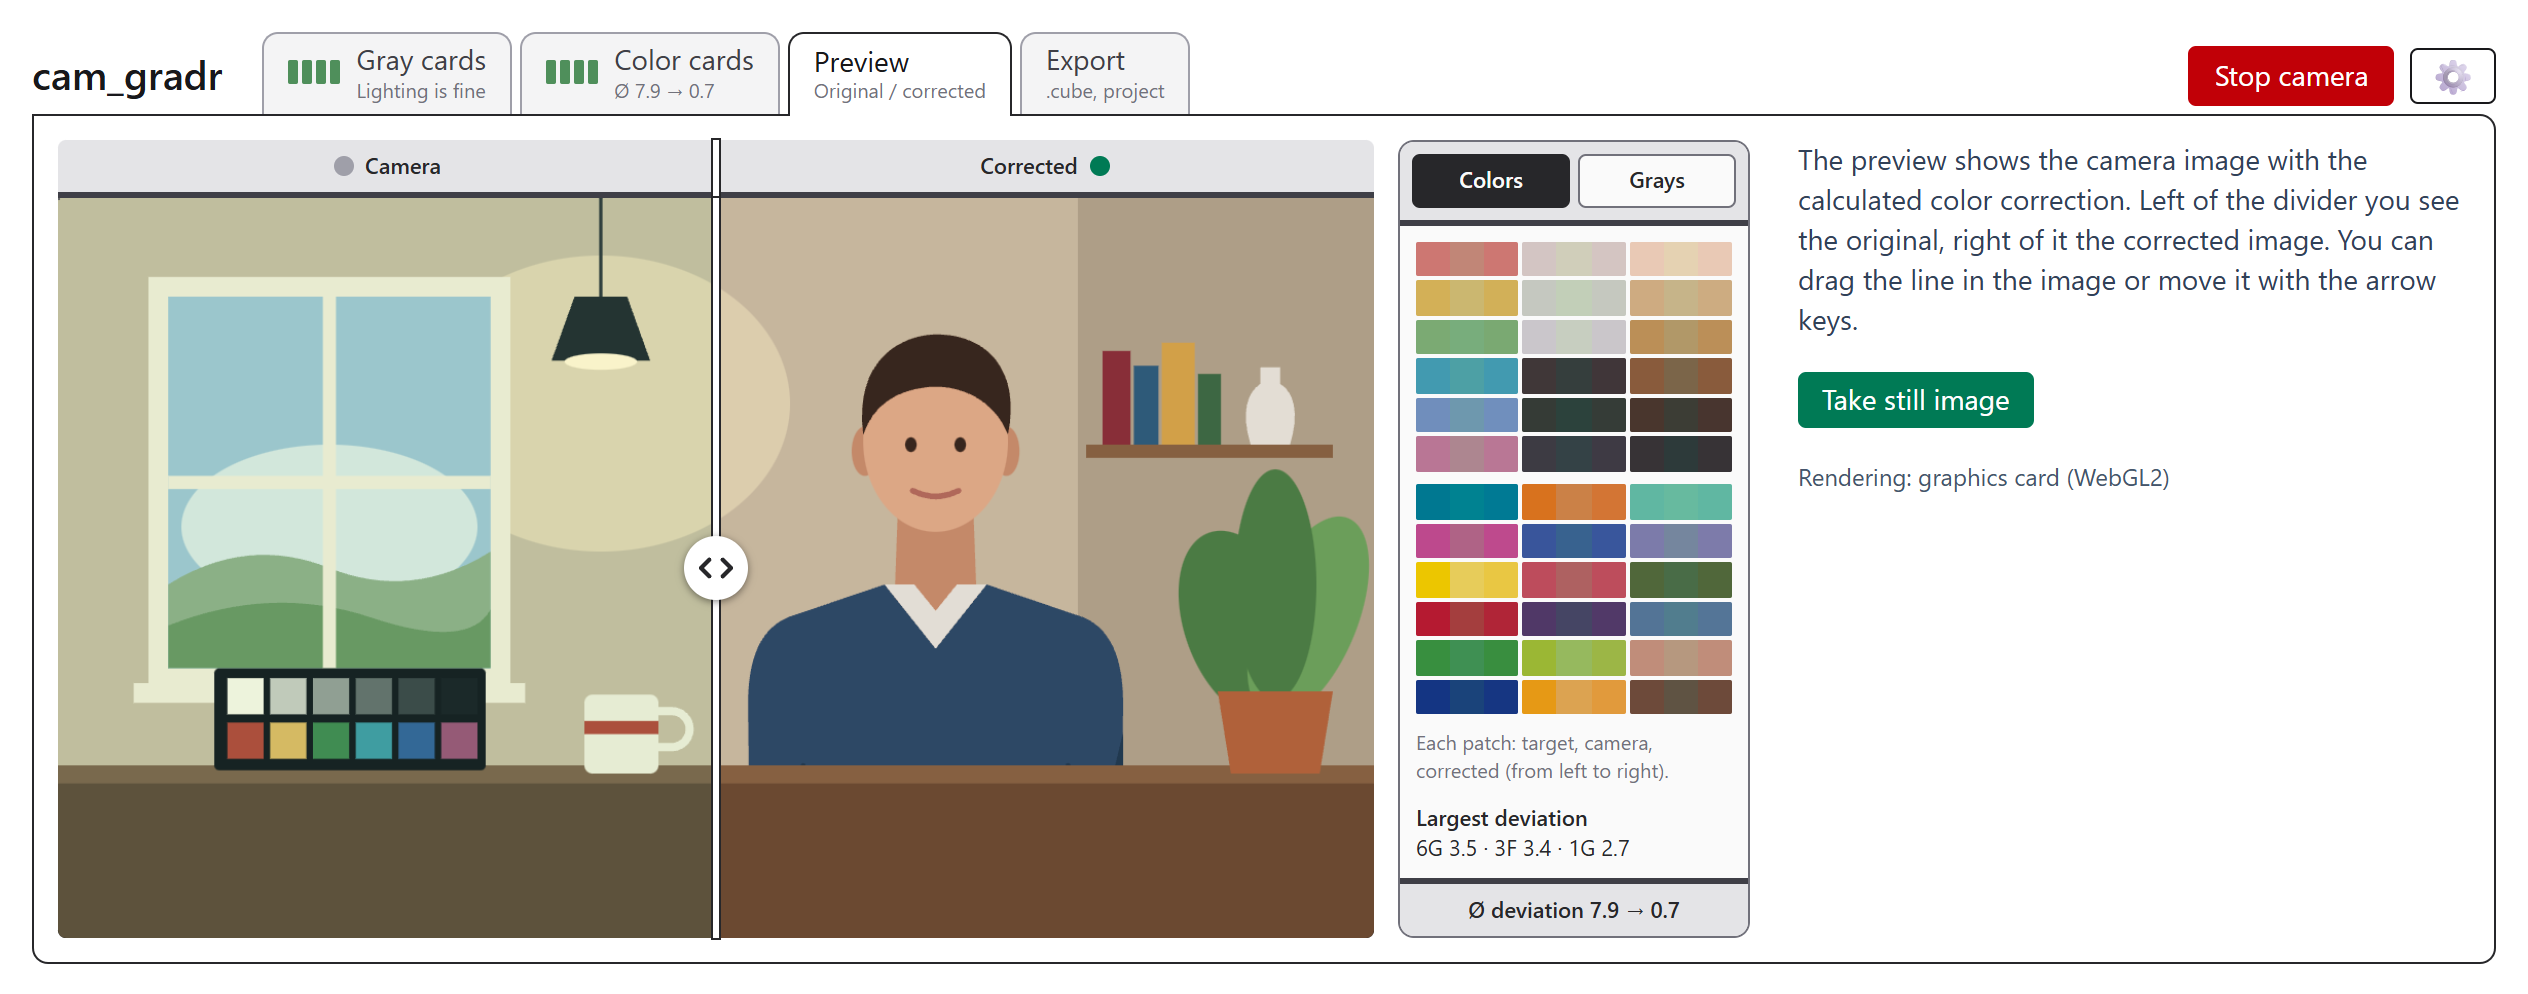
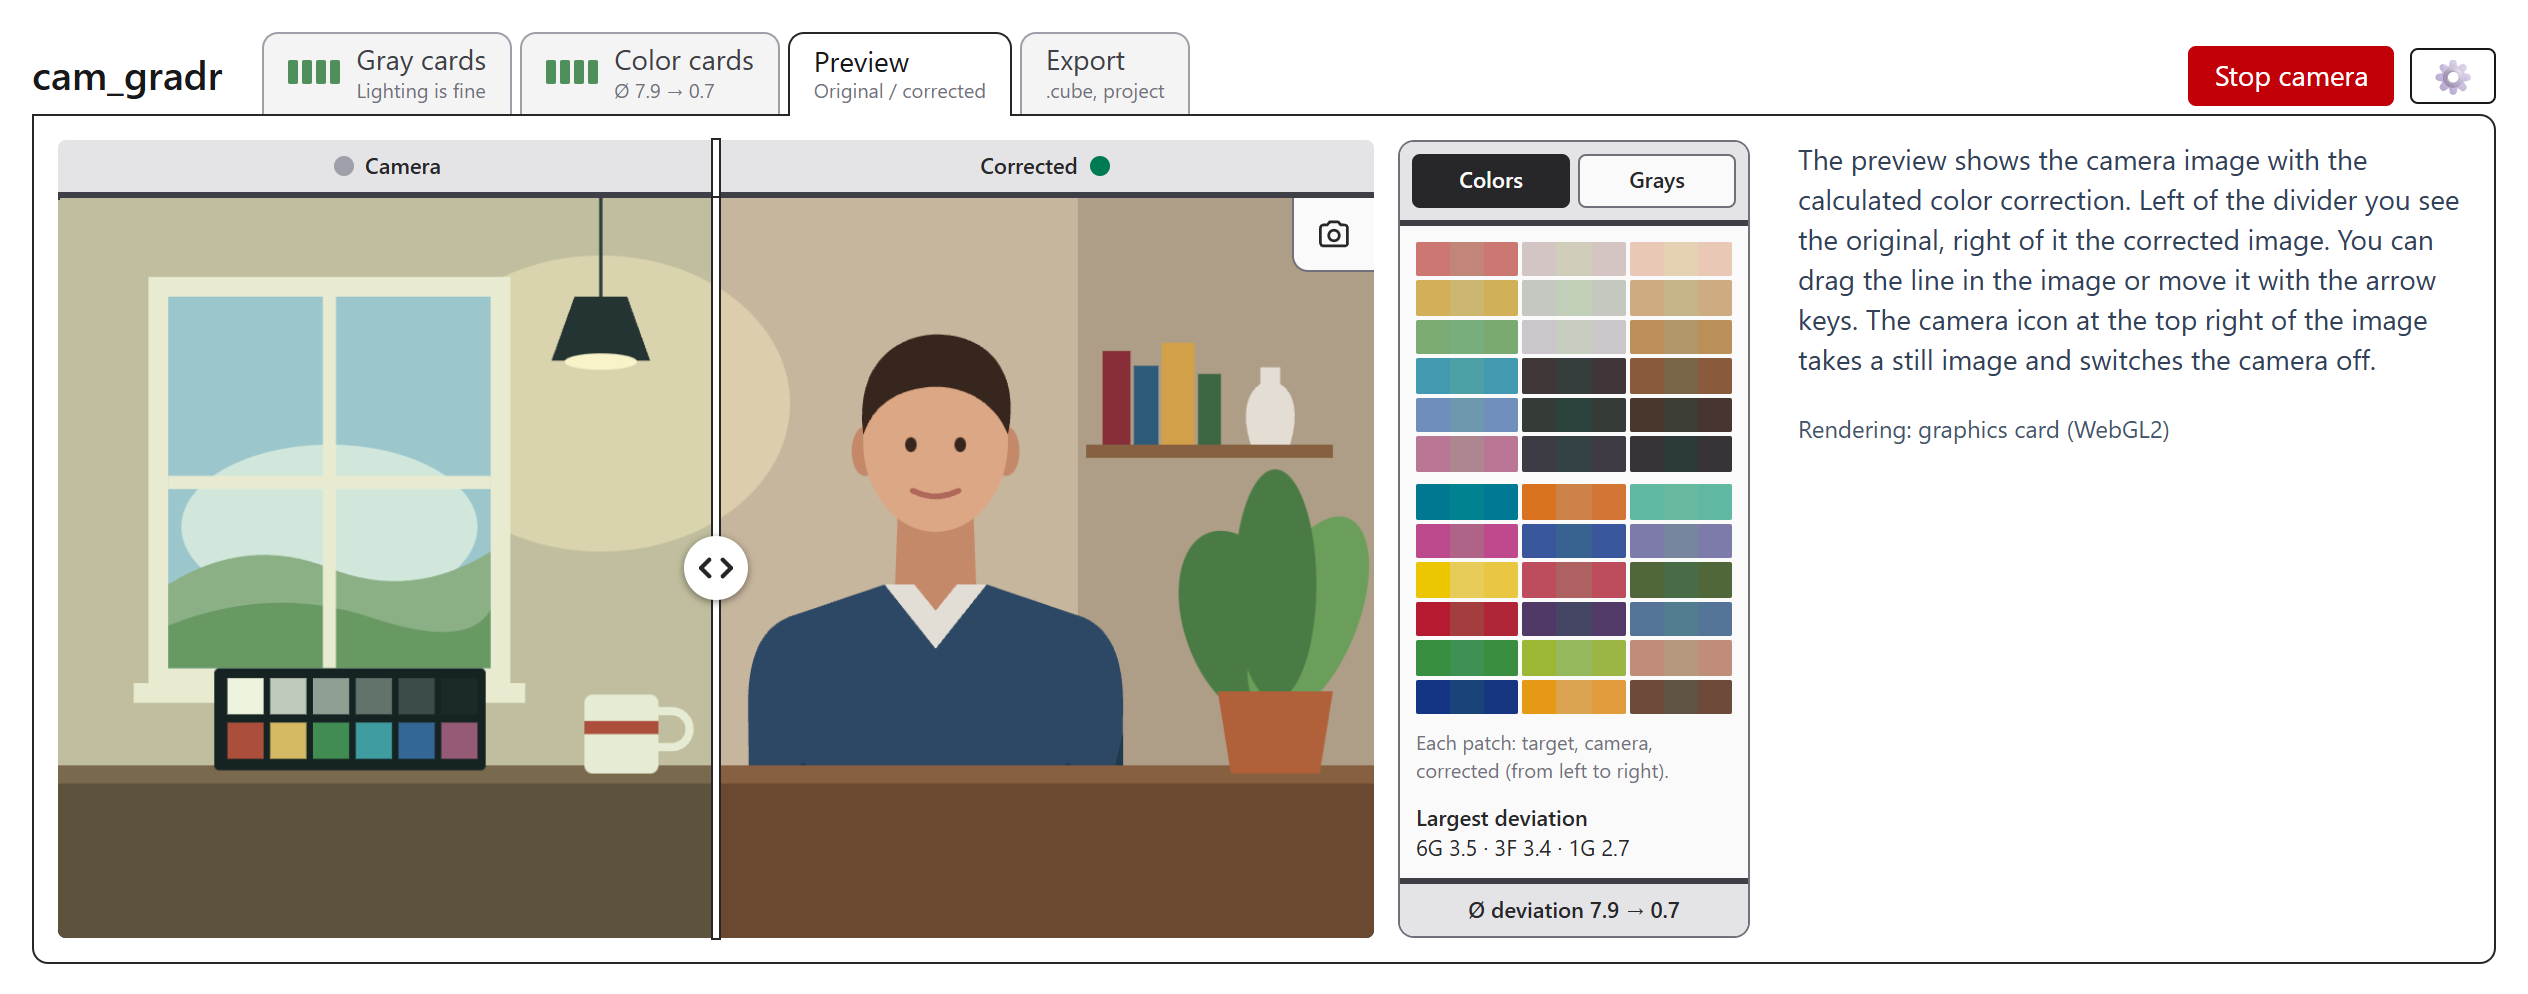
feat(ui): take the preview still image from the image corner (#91)
The preview took its still image with a green button in the side
column. It is now a camera icon at the top right of the image, in the
same corner toolbar as the trash of the card tabs, and appears only
while the camera runs. Actions now sit on the image, and the column
beside it only describes; its text names the icon.

The README picture is rendered again with the new button.

Changed region(s): [[0.6875, 0.3119, 0.9688, 0.499], [0.5, 0.1871, 0.5625, 0.2807]]

diff --git a/src/ui/PreviewTab.vue b/src/ui/PreviewTab.vue
@@ -237,16 +237,6 @@ const splitModel = computed({
       <p class="text-sm text-slate-700 dark:text-slate-300">
         {{ t('preview.intro') }}
       </p>
-      <div class="flex flex-wrap gap-2">
-        <button
-          type="button"
-          class="rounded bg-emerald-700 px-3 py-1 text-sm text-white disabled:opacity-50"
-          :disabled="!isLive || !videoReady"
-          @click="capture"
-        >
-          {{ t('preview.capture') }}
-        </button>
-      </div>
       <p v-if="error !== null" class="text-sm text-red-700 dark:text-red-400" role="alert">
         {{ error }}
       </p>
@@ -339,6 +329,40 @@ const splitModel = computed({
                 v-model="splitModel"
                 :label="t('preview.divider')"
               />
+              <!-- Toolbar in the image corner, where the card tabs have the trash: take a still
+                   image while the camera runs. The side column only describes, it holds no actions. -->
+              <div
+                v-if="model !== null && isLive"
+                class="absolute right-0 top-0 z-10 flex overflow-hidden rounded-bl-lg border-b border-l border-zinc-500 bg-zinc-50 text-zinc-800"
+                role="toolbar"
+                :aria-label="t('preview.toolbar')"
+              >
+                <button
+                  type="button"
+                  class="grid h-9 w-10 place-items-center hover:bg-zinc-800 hover:text-zinc-50 focus-visible:bg-zinc-800 focus-visible:text-zinc-50 disabled:pointer-events-none disabled:opacity-50"
+                  :aria-label="t('preview.capture')"
+                  :title="t('preview.captureTitle')"
+                  :disabled="!videoReady"
+                  data-testid="preview-capture"
+                  @click="capture"
+                >
+                  <svg
+                    class="size-[18px]"
+                    viewBox="0 0 24 24"
+                    fill="none"
+                    stroke="currentColor"
+                    stroke-width="1.8"
+                    stroke-linecap="round"
+                    stroke-linejoin="round"
+                    aria-hidden="true"
+                  >
+                    <path
+                      d="M3 8a2 2 0 0 1 2-2h2.5l1.5-2h6l1.5 2H19a2 2 0 0 1 2 2v10a2 2 0 0 1-2 2H5a2 2 0 0 1-2-2z"
+                    />
+                    <circle cx="12" cy="13" r="3.5" />
+                  </svg>
+                </button>
+              </div>
             </div>
           </div>
         </div>

diff --git a/src/ui/PreviewTab.test.ts b/src/ui/PreviewTab.test.ts
@@ -100,20 +100,22 @@ describe('PreviewTab', () => {
       return Promise.resolve();
     });
     const wrapper = mount(PreviewTab);
-    const take = () => wrapper.findAll('button').find((b) => b.text() === 'Standbild aufnehmen');
-    expect(take()?.attributes('disabled')).toBeDefined();
+    // The button sits in the image corner and only appears with the live image.
+    const take = () => wrapper.find('[data-testid="preview-capture"]');
+    expect(take().exists()).toBe(false);
 
     await camera.start();
     await flushPromises();
-    expect(take()?.attributes('disabled')).toBeDefined();
+    expect(take().attributes('aria-label')).toBe('Standbild aufnehmen');
+    expect(take().attributes('disabled')).toBeDefined();
     await wrapper.get('video').trigger('loadeddata');
-    expect(take()?.attributes('disabled')).toBeUndefined();
-    await take()?.trigger('click');
+    expect(take().attributes('disabled')).toBeUndefined();
+    await take().trigger('click');
     await flushPromises();
     expect(capture).toHaveBeenCalledTimes(1);
     expect(camera.status).toBe('idle');
     expect(camera.still).not.toBeNull();
-    expect(take()?.attributes('disabled')).toBeDefined();
+    expect(take().exists()).toBe(false);
     await camera.start();
     await flushPromises();
     expect(camera.still).toBeNull();
@@ -129,10 +131,7 @@ describe('PreviewTab', () => {
     await camera.start();
     await flushPromises();
     await wrapper.get('video').trigger('loadeddata');
-    await wrapper
-      .findAll('button')
-      .find((b) => b.text() === 'Standbild aufnehmen')
-      ?.trigger('click');
+    await wrapper.get('[data-testid="preview-capture"]').trigger('click');
     await flushPromises();
     expect(camera.status).toBe('live');
   });

diff --git a/PLAN.md b/PLAN.md
@@ -13,7 +13,7 @@ A single-page web app, purely client-side without a backend, that captures a Dat
 - **Still images:** Measuring only ever happens on still images, never on the live image. Each tab with a camera image (Gray cards, Color cards, Preview) has its own still image, which is put away when switching and comes back on return. Starting the camera discards only the still image of the active tab, loading a project discards all of them.
 - **Gray cards:** a measuring field as tall as the image, brightness vertical (too high at the top) and contrast horizontal (too high on the right), the normal range as a framed window in the middle, the surface in fine gray levels as in the zone system, and a dot for the measurement. The main message sits at the edge towards which the measurement deviates; hover or focus shows the next step and the details (both large patches with target and tolerance, highlights, shadows). The next step is always the brightness first and then the contrast, because both influence each other. There is no histogram.
 - **Color cards:** the active reference set, a wipe slider across both cards (camera colors on the left, corrected on the right) and the report (section 5). The correction is recalculated whenever the corner points or the reference set change.
-- **Preview:** the camera image with the LUT, the original left of a dividing line that is dragged in the image or moved with the arrow keys, its own "Take still image" button, and a side column: Colors shows the 36 colored patches as target, camera and corrected per card and names the three largest deviations; Grays shows the twelve neutral patches as a wedge, the mean brightening and the channels shifted by at least 1.5 points per tonal range (shadows 0.1–0.3, midtones 0.4–0.6, highlights 0.7–0.9), and the mean deviation before and after. A tone curve diagram was dropped, as it showed almost a straight line for small corrections.
+- **Preview:** the camera image with the LUT, the original left of a dividing line that is dragged in the image or moved with the arrow keys, its own button for a still image (a camera icon at the top right of the image while the camera runs, in the same corner toolbar as the trash of the card tabs, so that actions sit on the image and the columns beside it only describe), and a side column: Colors shows the 36 colored patches as target, camera and corrected per card and names the three largest deviations; Grays shows the twelve neutral patches as a wedge, the mean brightening and the channels shifted by at least 1.5 points per tonal range (shadows 0.1–0.3, midtones 0.4–0.6, highlights 0.7–0.9), and the mean deviation before and after. A tone curve diagram was dropped, as it showed almost a straight line for small corrections.
 - **Export:** two cards. "LUT for monitor or software" with the size (17³, 33³ default, 65³), four slices through the LUT as a preview, the estimated file size and the download; without a correction it is grayed out with a link to the Color cards. "Back up project" lists what the file contains and has "Save project" and "Load project" (usable without a correction). The Export tab takes the height of the other tabs.
 - **Languages:** English (the reference) and German via vue-i18n with typed keys, texts in `src/lang/<language>/<area>.json`. The browser language decides, the menu can override it; language and appearance are remembered in `localStorage`.
 

diff --git a/README.md b/README.md
@@ -33,7 +33,8 @@ Everything runs in your browser. Images and measurements never leave your comput
    of a divider that you drag or move with the arrow keys; with the camera off it shows the still image
    of the color cards. The side column shows each colored patch as target, camera and corrected and
    names the largest deviations; switched to the grays it shows the gray ramp and how shadows, midtones
-   and highlights change. "Take still image" checks the correction on a steady image.
+   and highlights change. The camera icon at the top right of the image takes a still image to check the
+   correction on a steady image; in the card tabs the same corner holds the trash icon.
 5. **Export: download the LUT.** Choose 17³, 33³ or 65³ and download the `.cube` file. Larger LUTs are
    more accurate, but some devices only accept 17³ or 33³ (see their manual).
 
